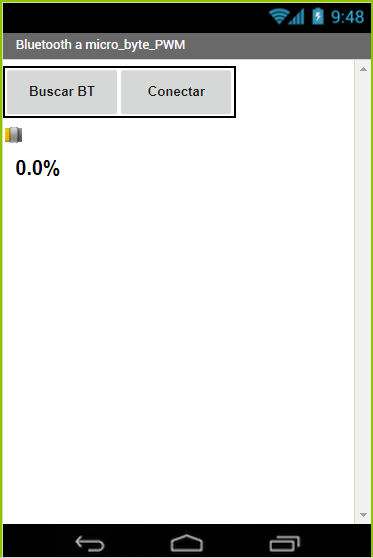
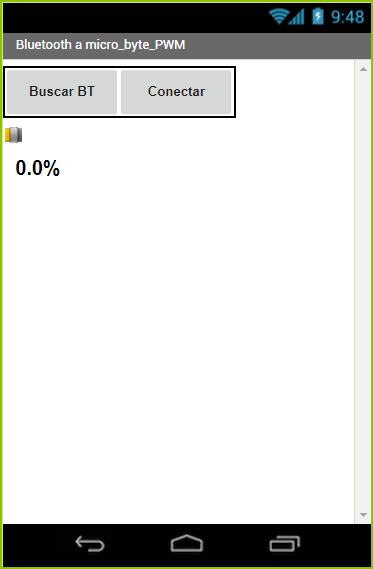
457

Changed region(s): [[0.0, 0.0609, 1.0, 0.3351], [0.0, 0.914, 1.0, 1.0], [0.7373, 0.0305, 0.9732, 0.0609]]

diff --git a/Microcontroladores/1 - PIC/5 - SENA-FVCC/11.2.4 Bluetooth a micro_bit.html b/Microcontroladores/1 - PIC/5 - SENA-FVCC/11.2.4 Bluetooth a micro_bit.html
@@ -24,7 +24,6 @@ font-family:"Calibri","sans-serif";
 }
 -->
 </style>
-<script src="Scripts/swfobject_modified.js" type="text/javascript"></script>
 <script type="text/javascript">
 	document.oncontextmenu = function(){return false;}
     function disabletext(e){
@@ -67,32 +66,8 @@ p.MsoNormal1 {	margin-top: 0cm;
   <figcaption><span class="MsoNormal" style="margin-bottom:.0001pt;text-align:justify;line-height:normal;background:white;"><span class="MsoNormal" style="margin-bottom:.0001pt;text-align:justify;line-height:normal;background:white;"><span class="MsoNormal" style="margin-bottom:.0001pt;text-align:justify;line-height:normal;background:white;"><strong><span style="font-family:'Arial','sans-serif'; font-size:12.0pt; ">Bluetooth a micro_bit</span></strong></span></span></span></figcaption>
 </figure>
 <p class="MsoNormal" style="margin-bottom:.0001pt;text-align:justify;line-height:normal;background:white;">&nbsp;</p>
-<p class="MsoNormal" style="margin-bottom:.0001pt;text-align:justify;line-height:normal;background:white;">
-  <object id="FlashID" classid="clsid:D27CDB6E-AE6D-11cf-96B8-444553540000" width="808" height="612">
-    <param name="movie" value="../swf/Serial_read_bit.swf">
-    <param name="quality" value="high">
-    <param name="wmode" value="opaque">
-    <param name="swfversion" value="6.0.65.0">
-    <!-- Esta etiqueta param indica a los usuarios de Flash Player 6.0 r65 o posterior que descarguen la versión más reciente de Flash Player. Elimínela si no desea que los usuarios vean el mensaje. -->
-    <param name="expressinstall" value="Scripts/expressInstall.swf">
-    <!-- La siguiente etiqueta object es para navegadores distintos de IE. Ocúltela a IE mediante IECC. -->
-    <!--[if !IE]>-->
-    <object type="application/x-shockwave-flash" data="../swf/Serial_read_bit.swf" width="808" height="612">
-      <!--<![endif]-->
-      <param name="quality" value="high">
-      <param name="wmode" value="opaque">
-      <param name="swfversion" value="6.0.65.0">
-      <param name="expressinstall" value="Scripts/expressInstall.swf">
-      <!-- El navegador muestra el siguiente contenido alternativo para usuarios con Flash Player 6.0 o versiones anteriores. -->
-      <div>
-        <h4>El contenido de esta página requiere una versión más reciente de Adobe Flash Player.</h4>
-        <p><a href="http://www.adobe.com/go/getflashplayer"><img src="http://www.adobe.com/images/shared/download_buttons/get_flash_player.gif" alt="Obtener Adobe Flash Player" width="112" height="33" /></a></p>
-      </div>
-      <!--[if !IE]>-->
-    </object>
-    <!--<![endif]-->
-  </object>
-</p>
+<p class="MsoNormal" style="margin-bottom:.0001pt;text-align:justify;line-height:normal;background:white;"><img src="../img/Bluetooth a micro_bit_1.png" width="373" height="569" alt=""/> </p>
+<p class="MsoNormal" style="margin-bottom:.0001pt;text-align:justify;line-height:normal;background:white;">&nbsp;</p>
 <p class="MsoNormal" style="margin-bottom:.0001pt;text-align:justify;line-height:normal;background:white;">&nbsp;</p>
 <p class="MsoNormal" style="margin-bottom:.0001pt;text-align:justify;line-height:normal;background:white;"><span class="MsoNormal" style="margin-bottom:.0001pt;text-align:justify;line-height:normal;background:white;"><span class="MsoNormal" style="margin-bottom:.0001pt;text-align:justify;line-height:normal;background:white;"><span class="MsoNormal" style="margin-bottom:.0001pt;text-align:justify;line-height:normal;background:white;"><span class="MsoNormal" style="margin-bottom:.0001pt;text-align:justify;line-height:normal;background:white;"><strong><span style="font-family:'Arial','sans-serif'; font-size:12.0pt; ">Código PIC C Compiler</span></strong></span></span></span></span></p>
 <p class="MsoNormal" style="margin-bottom:.0001pt;text-align:justify;line-height:normal;background:white;">&nbsp;</p>
@@ -167,9 +142,6 @@ p.MsoNormal1 {	margin-top: 0cm;
 <p class="MsoNormal" style="margin-bottom:.0001pt;line-height:normal;text-autospace:none;"><span style="font-family:Courier; font-size:10.0pt; color:#101010; ">   }</span></p>
 <p class="MsoNormal"><span style="line-height:107%; font-family:Courier; font-size:10.0pt; color:#101010; ">}</span></p>
 <p class="MsoNormal">&nbsp;</p>
-<p class="MsoNormal"><span class="MsoNormal" style="margin-bottom:.0001pt;text-align:justify;line-height:normal;background:white;"><span class="MsoNormal" style="margin-bottom:.0001pt;text-align:justify;line-height:normal;background:white;"><span class="MsoNormal" style="margin-bottom:.0001pt;text-align:justify;line-height:normal;background:white;"><strong><span style="font-family:'Arial','sans-serif'; font-size:12.0pt; ">Código Sharp Develop</span></strong></span></span></span></p>
-<script type="text/javascript">
-swfobject.registerObject("FlashID");
-  </script>
+<p class="MsoNormal"><span class="MsoNormal" style="margin-bottom:.0001pt;line-height:normal;text-autospace:none;"><strong><span style="font-family:'Arial','sans-serif'; font-size:12.0pt; ">Programa App Inventor 2</span></strong></span></p>
 </body>
 </html>

diff --git a/Microcontroladores/1 - PIC/5 - SENA-FVCC/0 SENA-FVCC.html b/Microcontroladores/1 - PIC/5 - SENA-FVCC/0 SENA-FVCC.html
@@ -2300,6 +2300,8 @@ p.MsoNormal1 {	margin-top: 0cm;
   </object>
 </p>
 <p class="MsoNormal" style="margin-bottom:.0001pt;text-align:justify;line-height:normal;background:white;">&nbsp;</p>
+<p class="MsoNormal" style="margin-bottom:.0001pt;text-align:justify;line-height:normal;background:white;"><span class="MsoNormal" style="margin-bottom:.0001pt;text-align:justify;line-height:normal;background:white;"><img src="../img/Bluetooth a micro_bit_1.png" width="373" height="569" alt=""/></span></p>
+<p class="MsoNormal" style="margin-bottom:.0001pt;text-align:justify;line-height:normal;background:white;">&nbsp;</p>
 <p class="MsoNormal" style="margin-bottom:.0001pt;text-align:justify;line-height:normal;background:white;">&nbsp;</p>
 <p class="MsoNormal" style="margin-bottom:.0001pt;text-align:justify;line-height:normal;background:white;">
   <object id="FlashID77" classid="clsid:D27CDB6E-AE6D-11cf-96B8-444553540000" width="600" height="25">
@@ -2356,7 +2358,7 @@ p.MsoNormal1 {	margin-top: 0cm;
   </object>
 </p>
 <p class="MsoNormal" style="margin-bottom:.0001pt;text-align:justify;line-height:normal;background:white;">&nbsp;</p>
-<p class="MsoNormal" style="margin-bottom:.0001pt;text-align:justify;line-height:normal;background:white;"><img src="../img/Bluetooth a micro byte_PWM_1.png" width="373" height="558" alt=""/></p>
+<p class="MsoNormal" style="margin-bottom:.0001pt;text-align:justify;line-height:normal;background:white;"><img src="../img/Bluetooth a micro byte_PWM_1.png" width="373" height="569" alt=""/></p>
 <p class="MsoNormal" style="margin-bottom:.0001pt;text-align:justify;line-height:normal;background:white;">&nbsp;</p>
 <p class="MsoNormal" style="margin-bottom:.0001pt;text-align:justify;line-height:normal;background:white;">&nbsp;</p>
 <p class="MsoNormal" style="margin-bottom:.0001pt;text-align:justify;line-height:normal;background:white;">
@@ -2386,7 +2388,7 @@ p.MsoNormal1 {	margin-top: 0cm;
   </object>
 </p>
 <p class="MsoNormal" style="margin-bottom:.0001pt;text-align:justify;line-height:normal;background:white;">&nbsp;</p>
-<p class="MsoNormal" style="margin-bottom:.0001pt;text-align:justify;line-height:normal;background:white;"><img src="../img/Proyecto Bluetooth_1.png" width="373" height="525" alt=""/></p>
+<p class="MsoNormal" style="margin-bottom:.0001pt;text-align:justify;line-height:normal;background:white;"><img src="../img/Proyecto Bluetooth_1.png" width="373" height="569" alt=""/></p>
 <p class="MsoNormal" style="margin-bottom:.0001pt;text-align:justify;line-height:normal;background:white;">&nbsp;</p>
 <p class="MsoNormal" style="margin-bottom:.0001pt;text-align:justify;line-height:normal;background:white;">&nbsp;</p>
 <p class="MsoNormal" style="margin-bottom:.0001pt;text-align:justify;line-height:normal;background:white;"><span class="MsoNormal" style="margin-bottom:.0001pt;text-align:justify;line-height:13.5pt;background:white;"><a id="Comunicación_serial_asíncrona_(UART)7"><strong><span style="font-family:'Arial','sans-serif'; font-size:12.0pt; ">XBee</span></strong></a></span></p>

diff --git a/Microcontroladores/1 - PIC/5 - SENA-FVCC/11.2.5 Bluetooth a micro_byte_7Seg.html b/Microcontroladores/1 - PIC/5 - SENA-FVCC/11.2.5 Bluetooth a micro_byte_7Seg.html
@@ -171,7 +171,9 @@ p.MsoNormal1 {	margin-top: 0cm;
 <p class="MsoNormal" style="margin-bottom:.0001pt;line-height:normal;text-autospace:none;"><span style="font-family:Courier; font-size:10.0pt; color:black; ">          stringComplete </span><span style="font-family:Courier; font-size:10.0pt; color:#101010; ">= </span><span style="font-family:Courier; font-size:10.0pt; color:black; ">true</span><span style="font-family:Courier; font-size:10.0pt; color:#101010; ">;</span></p>
 <p class="MsoNormal" style="margin-bottom:.0001pt;line-height:normal;text-autospace:none;"><span style="font-family:Courier; font-size:10.0pt; color:#101010; ">      }</span></p>
 <p class="MsoNormal" style="margin-bottom:.0001pt;line-height:normal;text-autospace:none;"><span style="font-family:Courier; font-size:10.0pt; color:#101010; ">   }</span></p>
-<span style="line-height:107%; font-family:Courier; font-size:10.0pt; color:#101010; ">}</span><script type="text/javascript">
+<p><span style="line-height:107%; font-family:Courier; font-size:10.0pt; color:#101010; ">}</span></p>
+<p><span class="MsoNormal" style="margin-bottom:.0001pt;line-height:normal;text-autospace:none;"><strong><span style="font-family:'Arial','sans-serif'; font-size:12.0pt; ">Programa App Inventor 2</span></strong></span></p>
+<script type="text/javascript">
 swfobject.registerObject("FlashID36");
   </script>
 </body>
